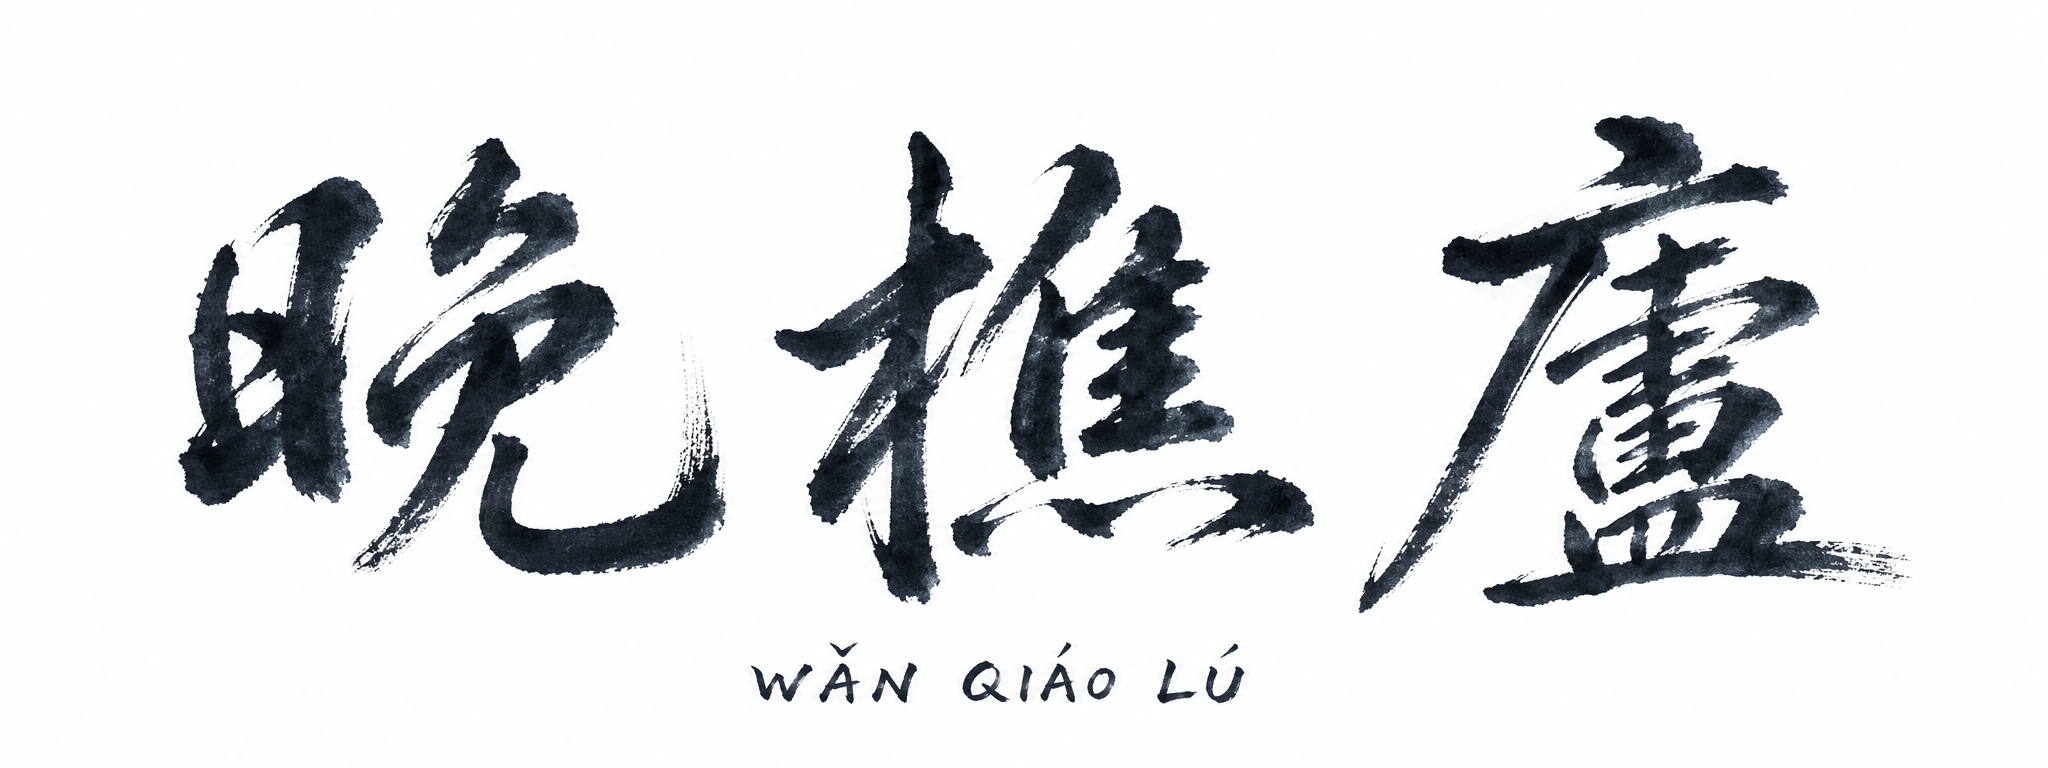
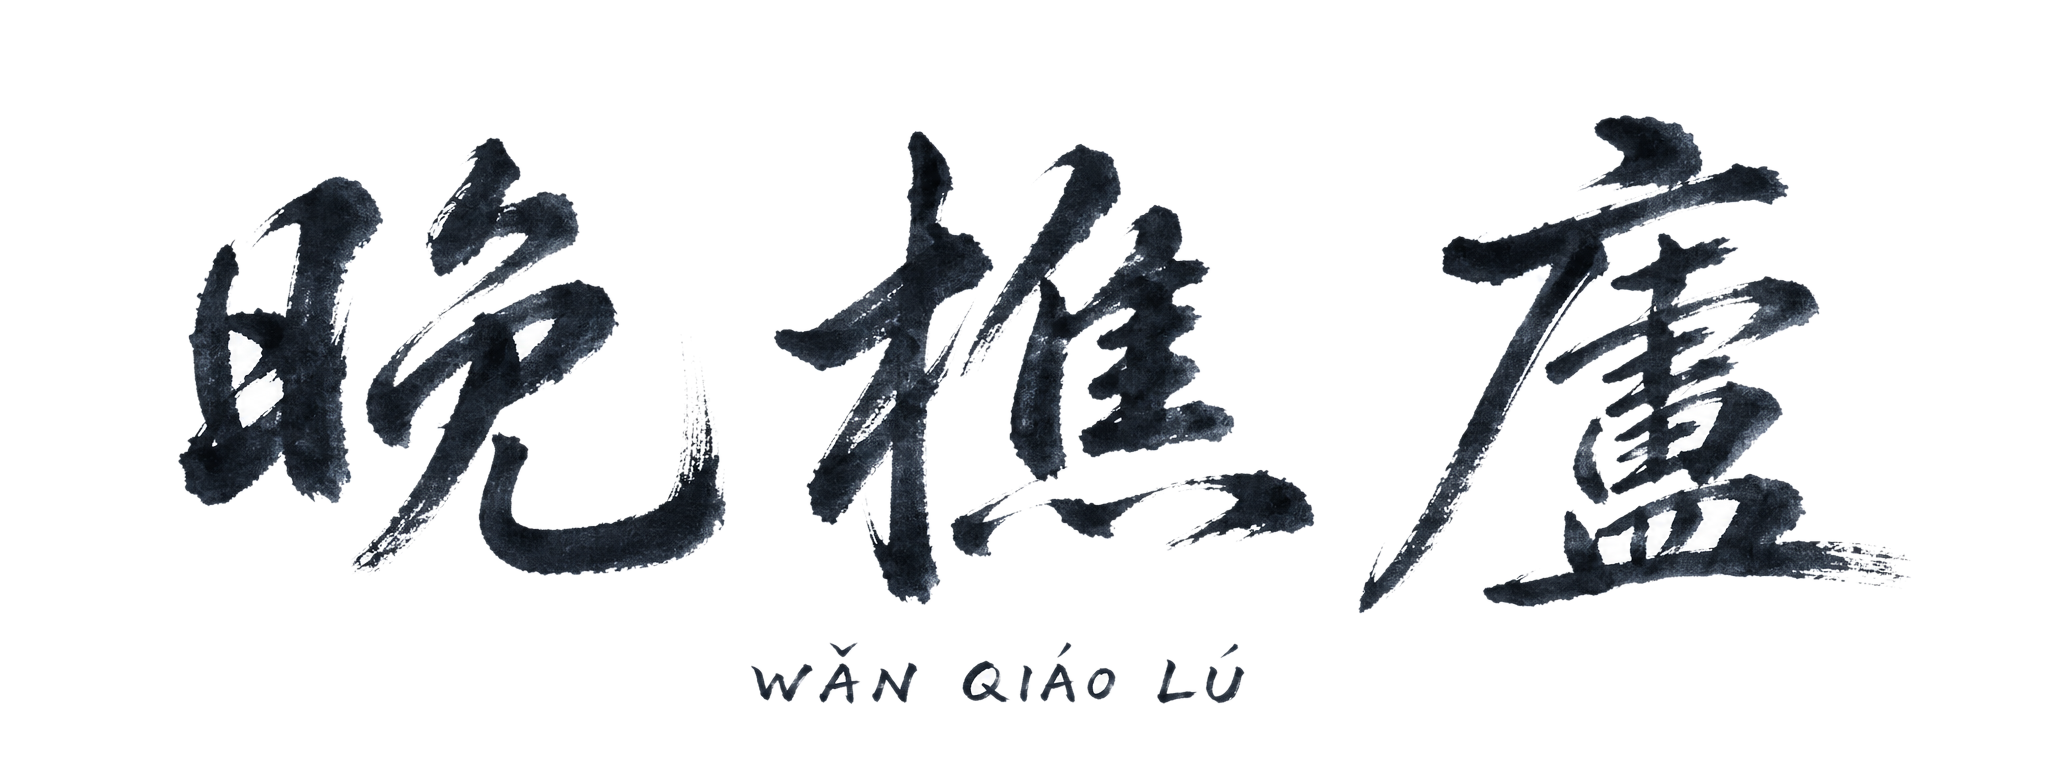
polish: remove white backgrounds + reposition hero objects
Background removal (assert-preparation/generator/tools/remove_bg.py):
- New scipy-based connected-components flood-fill: pixels in white regions
  connected to canvas border become transparent; interior light pixels (cream
  cards, warm parchment) preserved.
- Applied to S1 wordmark, S4 parchment scroll, S5C card stack.
- Adds scipy as generator dep.

Hero layout adjustments (per first-deploy visual review):
- Wordmark: more breathing room from corner (lg→xl spacing); drop
  mix-blend-mode now that bg is transparent.
- Cards: shifted to (42%, 45%) so they sit inside the lamp's lit pool;
  size up 35vw→42vw for more presence.
- Easter-egg scroll: nudge slightly into corner (4%, 6%).
- Footer link: more bottom margin (md→lg) to avoid clipping.

Changed region(s): [[0.9062, 0.7188, 0.9375, 0.75]]

diff --git a/web/app/pages/index.vue b/web/app/pages/index.vue
@@ -37,23 +37,25 @@ useSeoMeta({ title: () => t('site.name'), description: () => t('site.tagline') }
 
 .hero__wordmark {
   position: absolute;
-  top: var(--space-lg);
+  top: var(--space-xl);
   left: var(--space-xl);
   z-index: var(--z-hero-objects);
 }
 
+/* Card stack offset toward upper-left so it sits inside the lamp's lit pool
+   (S3 background has its warm circle centered around 30% x, 35% y). */
 .hero__cards {
   position: absolute;
-  top: 50%;
-  left: 50%;
+  top: 45%;
+  left: 42%;
   transform: translate(-50%, -50%);
   z-index: var(--z-hero-objects);
 }
 
 .hero__scroll {
   position: absolute;
-  left: 5%;
-  bottom: 8%;
+  left: 4%;
+  bottom: 6%;
   z-index: var(--z-hero-easter-egg);
 }
 
@@ -66,8 +68,8 @@ useSeoMeta({ title: () => t('site.name'), description: () => t('site.tagline') }
 
 .hero__footer {
   position: absolute;
-  bottom: var(--space-md);
-  right: var(--space-lg);
+  bottom: var(--space-lg);
+  right: var(--space-xl);
   z-index: var(--z-language-toggle);
 }
 </style>

diff --git a/web/app/components/HeroWordmark.vue b/web/app/components/HeroWordmark.vue
@@ -34,9 +34,9 @@ const { t } = useI18n()
 .hero-wordmark__img {
   width: 100%;
   height: auto;
-  /* Wordmark is dark ink on white paper background — multiply blend lets the
-     desk warmth show through the white paper, looking less like a sticker. */
-  mix-blend-mode: multiply;
-  opacity: 0.92;
+  /* Wordmark PNG now has transparent background (post-processed), so the brush
+     strokes are pure ink-black on transparency — no blend mode needed. Keep
+     a tiny opacity drop for that "ink-bled-into-wood" feel. */
+  opacity: 0.95;
 }
 </style>

diff --git a/web/app/components/CardStack.vue b/web/app/components/CardStack.vue
@@ -72,7 +72,7 @@ const cards: Card[] = [
 <style scoped>
 .card-stack {
   position: relative;
-  width: clamp(280px, 35vw, 520px);
+  width: clamp(360px, 42vw, 640px);
   aspect-ratio: 5 / 4;
 }
 

diff --git a/assert-preparation/generator/tools/remove_bg.py b/assert-preparation/generator/tools/remove_bg.py
@@ -1,0 +1,100 @@
+"""
+Remove white backgrounds from S1/S4/S5C assets.
+
+Strategy: flood-fill from each corner. Only "exterior white" (white pixels
+connected to the canvas edge) becomes transparent — interior light pixels
+(e.g. the cream-colored cards, the warm parchment) are preserved because they
+are not connected to the corners.
+
+A 1-pixel Gaussian blur on the resulting alpha channel feathers the cut edge
+to avoid jaggies.
+
+Overwrites web/public/art/signatures/*.png and web/public/art/homepage/*.png
+in place. The originals (with white background) remain in
+assert-preparation/generated/static/{S1,S4,S5C}/final.png.
+
+Usage:
+    uv run python tools/remove_bg.py
+"""
+
+from __future__ import annotations
+
+from pathlib import Path
+
+import numpy as np
+from PIL import Image, ImageFilter
+from scipy.ndimage import label
+
+
+ROOT = Path(__file__).resolve().parent.parent.parent.parent
+SOURCE_ROOT = ROOT / "assert-preparation" / "generated" / "static"
+WEB_ART = ROOT / "web" / "public" / "art"
+
+TARGETS = [
+    # (source-final, web-output, white-threshold)
+    # threshold = pixels with min-channel >= this are candidate-white
+    (SOURCE_ROOT / "S1"  / "final.png", WEB_ART / "signatures" / "wordmark-zh.png",     240),
+    (SOURCE_ROOT / "S4"  / "final.png", WEB_ART / "homepage"   / "parchment-scroll.png", 240),
+    (SOURCE_ROOT / "S5C" / "final.png", WEB_ART / "homepage"   / "card-stack.png",      245),
+]
+
+
+def remove_white_bg(src: Path, dest: Path, threshold: int) -> None:
+    img = Image.open(src).convert("RGBA")
+    arr = np.array(img)
+    h, w = arr.shape[:2]
+
+    # "Whiteness" = how close to pure white via min-channel.
+    rgb_min = arr[..., :3].min(axis=-1)
+    is_white = rgb_min >= threshold
+
+    # Connected-components label all white regions.
+    labeled, n = label(is_white)
+
+    # Find labels touching the canvas border — those are "exterior white".
+    border_labels = set()
+    border_labels.update(labeled[0, :].tolist())
+    border_labels.update(labeled[-1, :].tolist())
+    border_labels.update(labeled[:, 0].tolist())
+    border_labels.update(labeled[:, -1].tolist())
+    border_labels.discard(0)  # 0 = "not in any white region"
+
+    if not border_labels:
+        # Nothing connected to the border — image already has transparent edges
+        # or no white at corners. Save as-is.
+        dest.parent.mkdir(parents=True, exist_ok=True)
+        img.save(dest, optimize=True)
+        print(f"  ⚠ {dest.relative_to(ROOT)}  (no exterior white found)")
+        return
+
+    exterior = np.isin(labeled, list(border_labels))
+
+    # Set alpha=0 for exterior white pixels.
+    alpha_arr = arr[..., 3].copy()
+    alpha_arr[exterior] = 0
+
+    # Soft edge: Gaussian-blur the alpha channel by ~1px to feather.
+    alpha_img = Image.fromarray(alpha_arr, mode="L").filter(
+        ImageFilter.GaussianBlur(radius=1.2)
+    )
+    arr[..., 3] = np.array(alpha_img)
+
+    dest.parent.mkdir(parents=True, exist_ok=True)
+    Image.fromarray(arr).save(dest, optimize=True)
+
+    pct_removed = 100 * exterior.sum() / exterior.size
+    size_kb = dest.stat().st_size // 1024
+    rel = dest.relative_to(ROOT)
+    print(f"  ✓ {rel}  ({size_kb} KB, removed {pct_removed:.1f}% as exterior bg)")
+
+
+def main() -> None:
+    for src, dest, threshold in TARGETS:
+        if not src.exists():
+            print(f"  ✗ source missing: {src}")
+            continue
+        remove_white_bg(src, dest, threshold)
+
+
+if __name__ == "__main__":
+    main()
